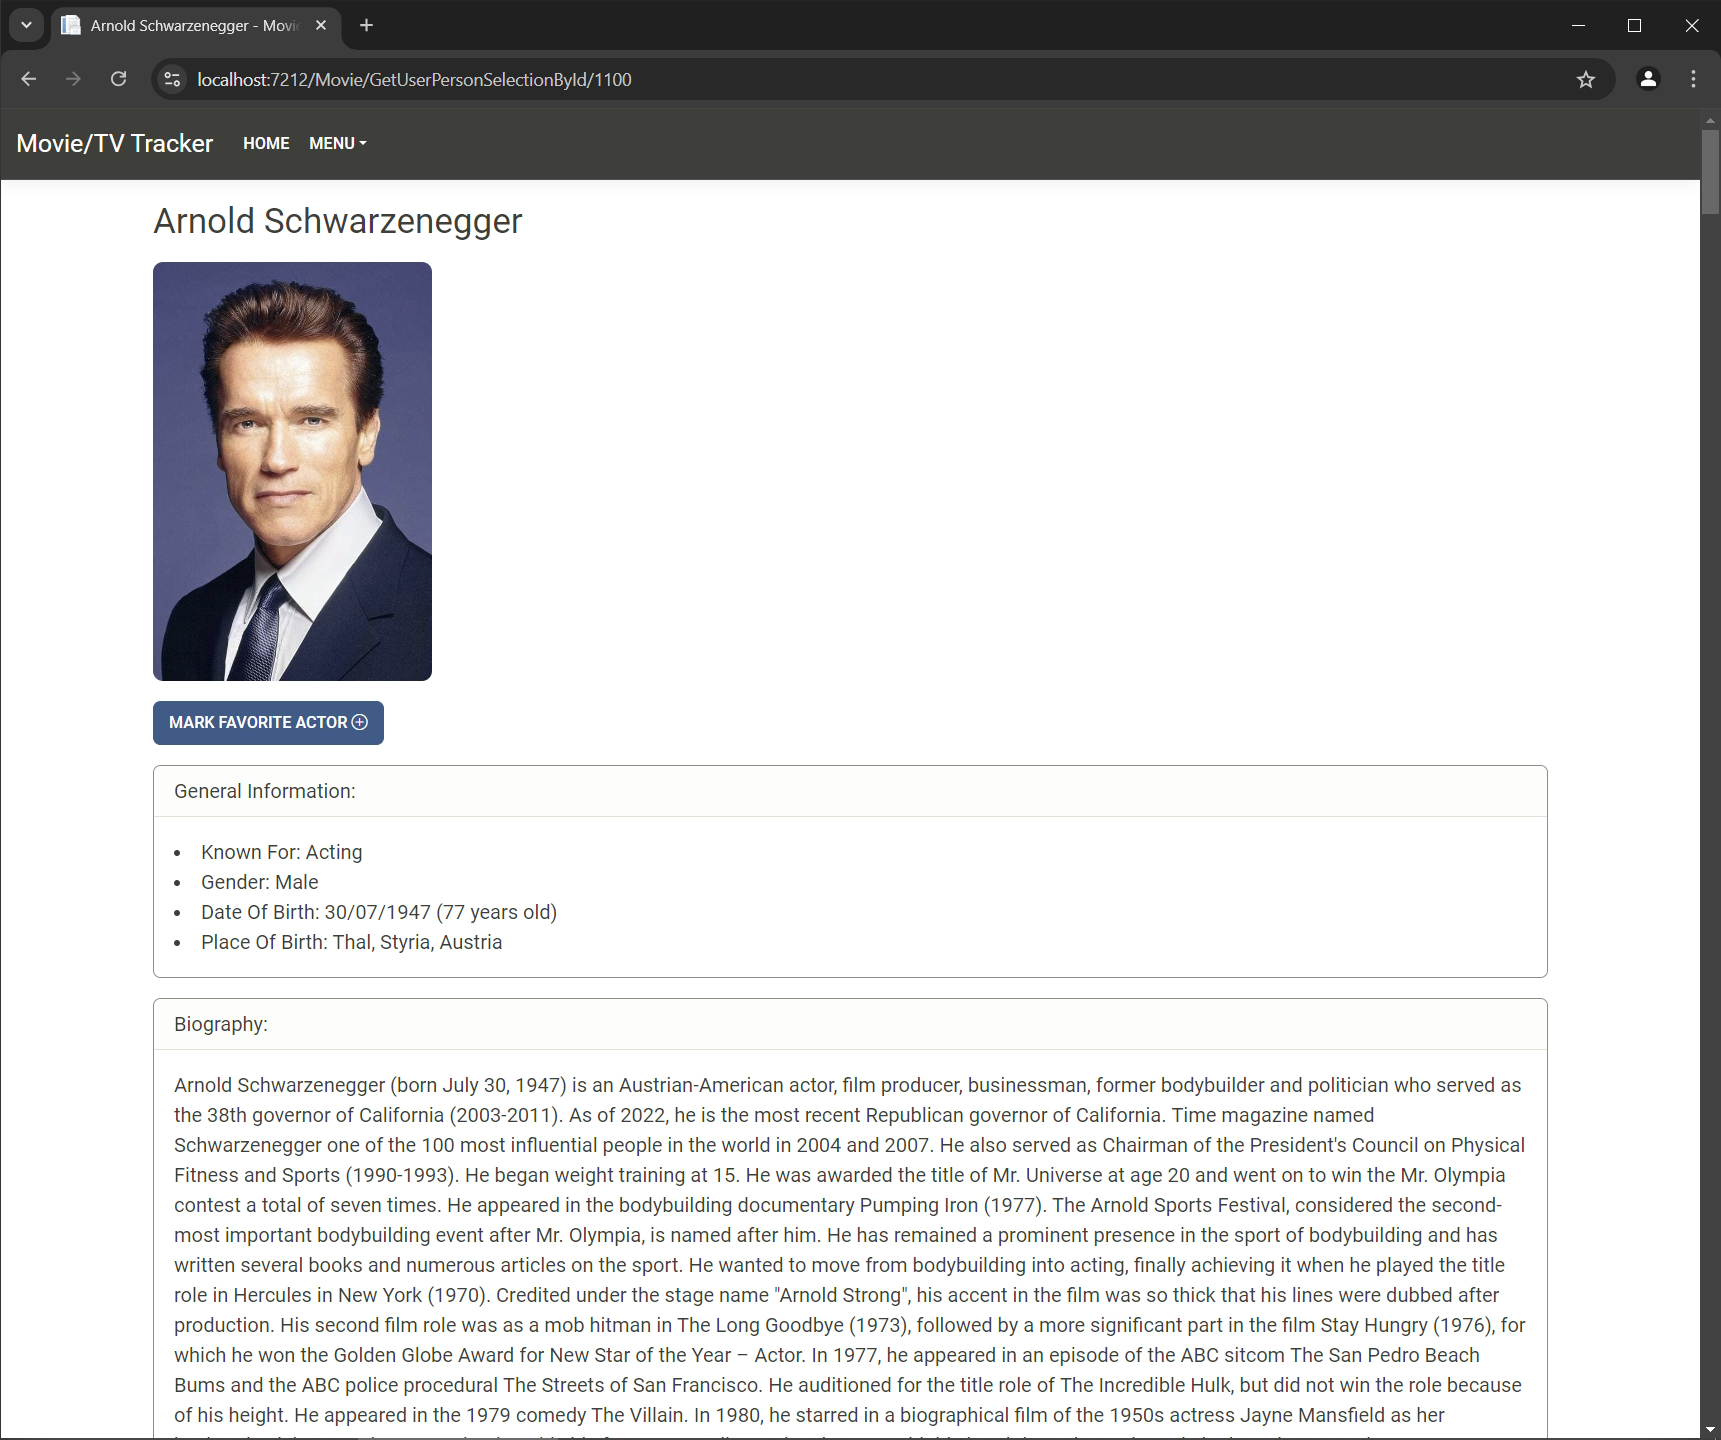
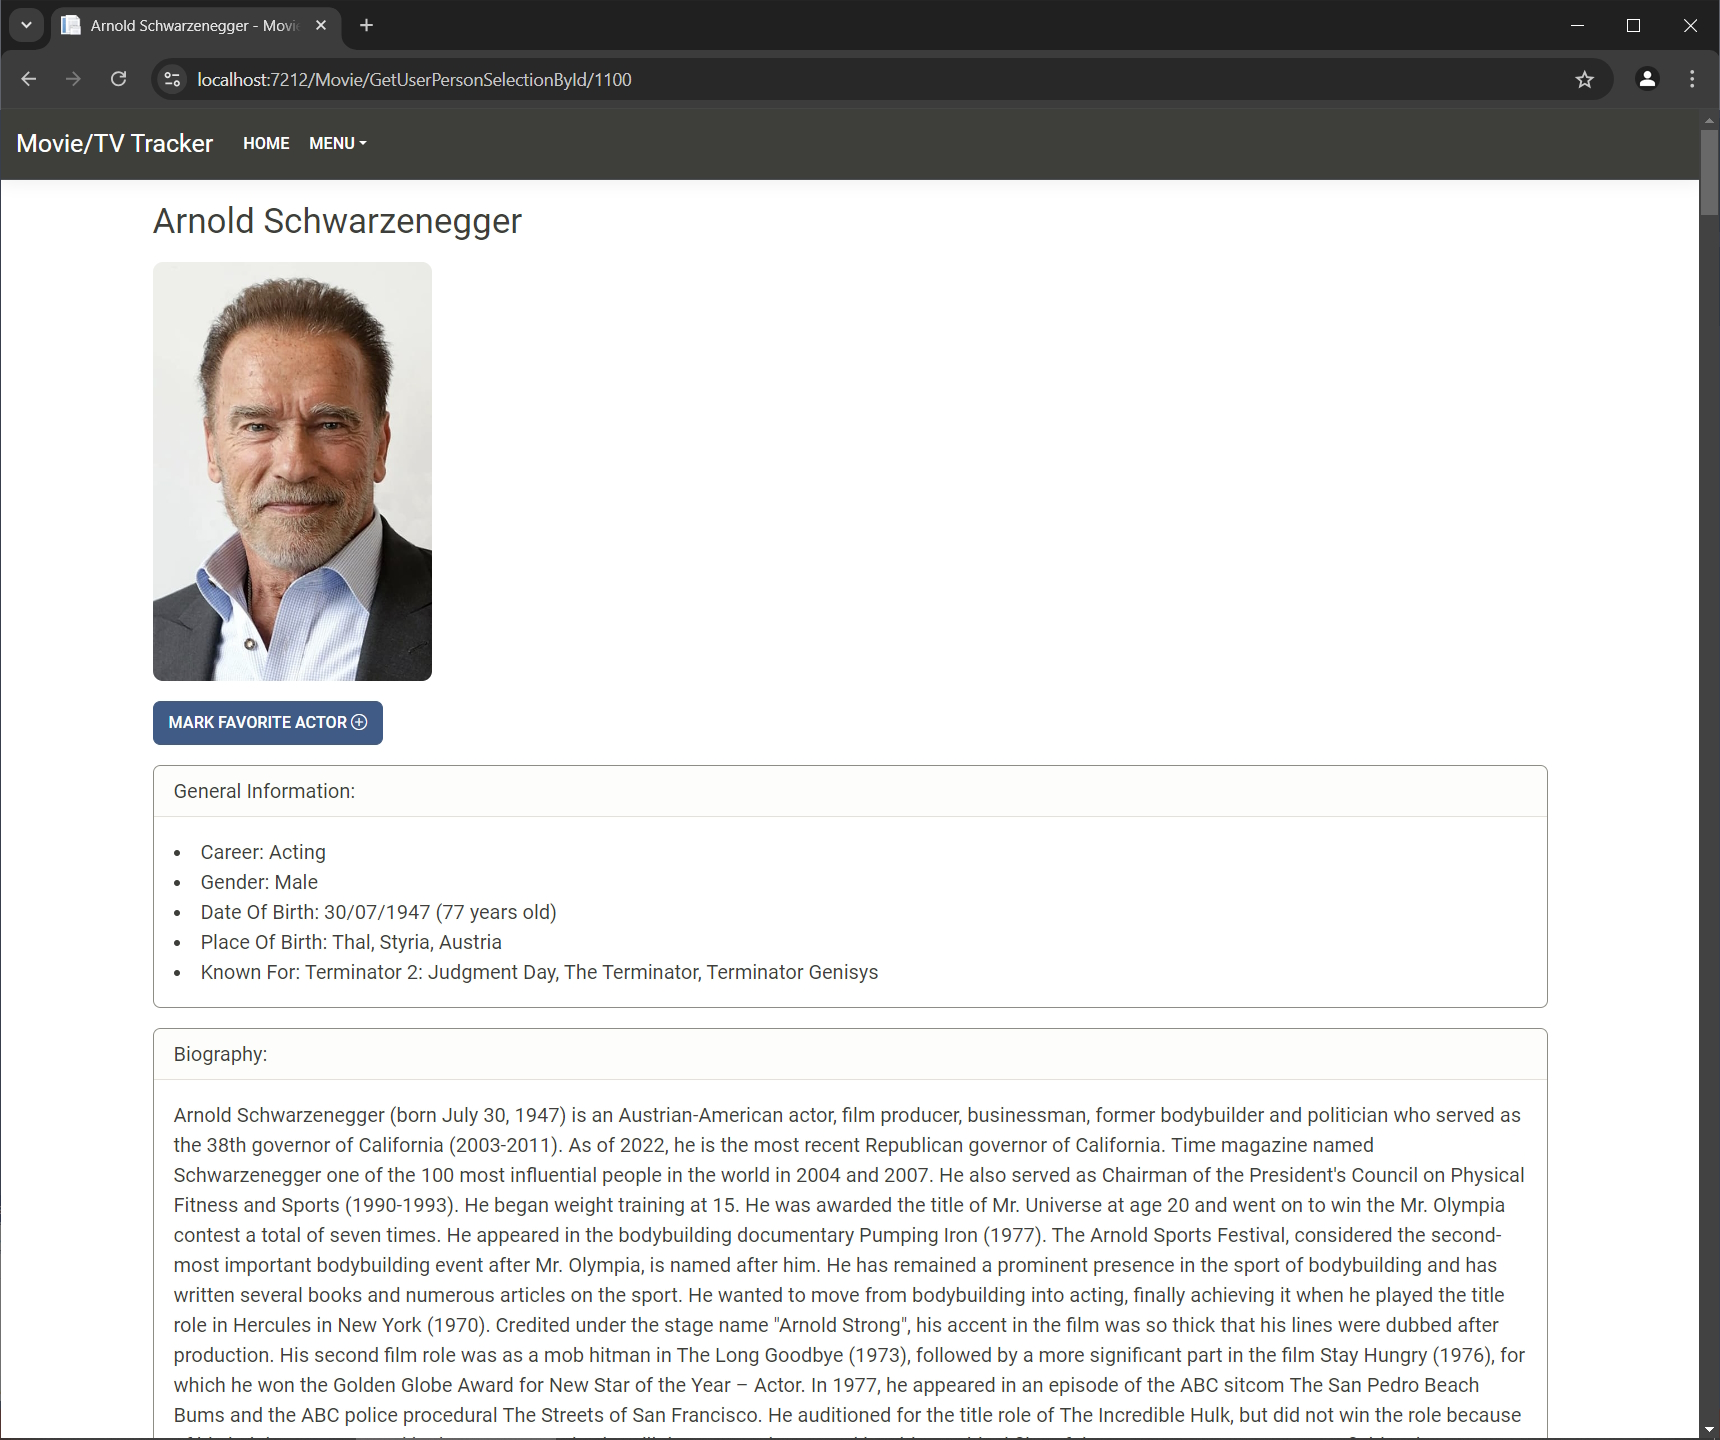
Now returns movies actors are known for and shows on favorite actors and actors pages.  Film years range is now oldest to newest on 'GetWatchedMedia' page.  Updated images.

Changed region(s): [[0.0924, 0.5312, 0.8936, 1.0], [0.0616, 0.1562, 0.2773, 0.5], [0.2773, 0.0312, 0.3698, 0.0625]]

diff --git a/TmdbApi.Lib/Tmdb.cs b/TmdbApi.Lib/Tmdb.cs
@@ -195,7 +195,8 @@ namespace TmdbApi.Lib
         }
 
         /// <summary>
-        /// Search for person and their combined movie/tv credits by TMDB id
+        /// Search for person and their combined movie/tv credits and known for movies by TMDB id
+        /// - Regarding 'KnownForMovies' - https://www.themoviedb.org/talk/51742ec8760ee3470c4bd73f
         /// </summary>
         /// <param name="id"></param>
         /// <returns></returns>
@@ -205,6 +206,8 @@ namespace TmdbApi.Lib
 
             resultReturn.PersonIdResult = SearchForPersonById(id);
             resultReturn.CombinedCreditsByPersonId = SearchForCombinedCreditsByPersonId(id);
+            // TMDB API doesnt have a API call to bring back movies a actor is know for, the below is the best way todo it currently but isnt perfect
+            resultReturn.KnownForMovies = string.Join(", ", resultReturn.CombinedCreditsByPersonId.cast.Where(item => item.media_type == "movie").OrderByDescending(item => item.vote_count).Take(3).OrderByDescending(item => item.vote_average).Select(item => item.original_title).ToArray());
 
             return resultReturn;
         }

diff --git a/TmdbApi.Lib/Models/ResultReturn.cs b/TmdbApi.Lib/Models/ResultReturn.cs
@@ -12,6 +12,7 @@
         public Rootobject CreditsByFilmId { get; set; }
         public Rootobject CreditsByTvId { get; set; }
         public Rootobject CombinedCreditsByPersonId { get; set; }
+        public string KnownForMovies { get; set; }
 
         public ResultReturn()
         {
